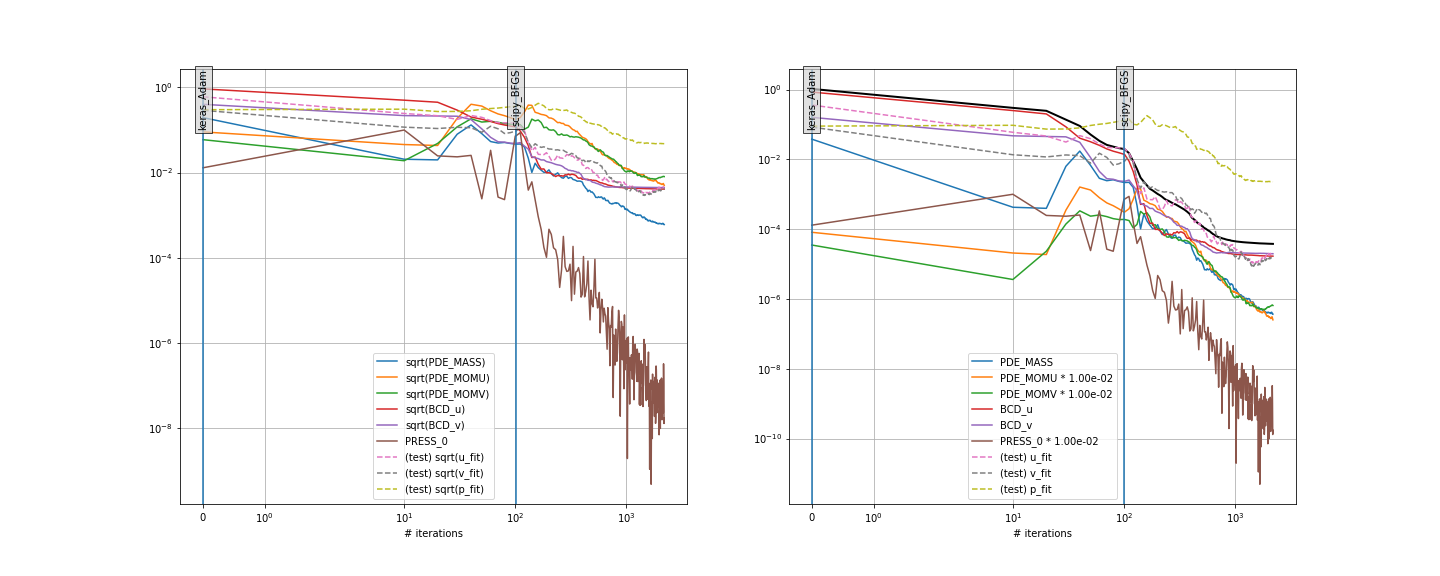
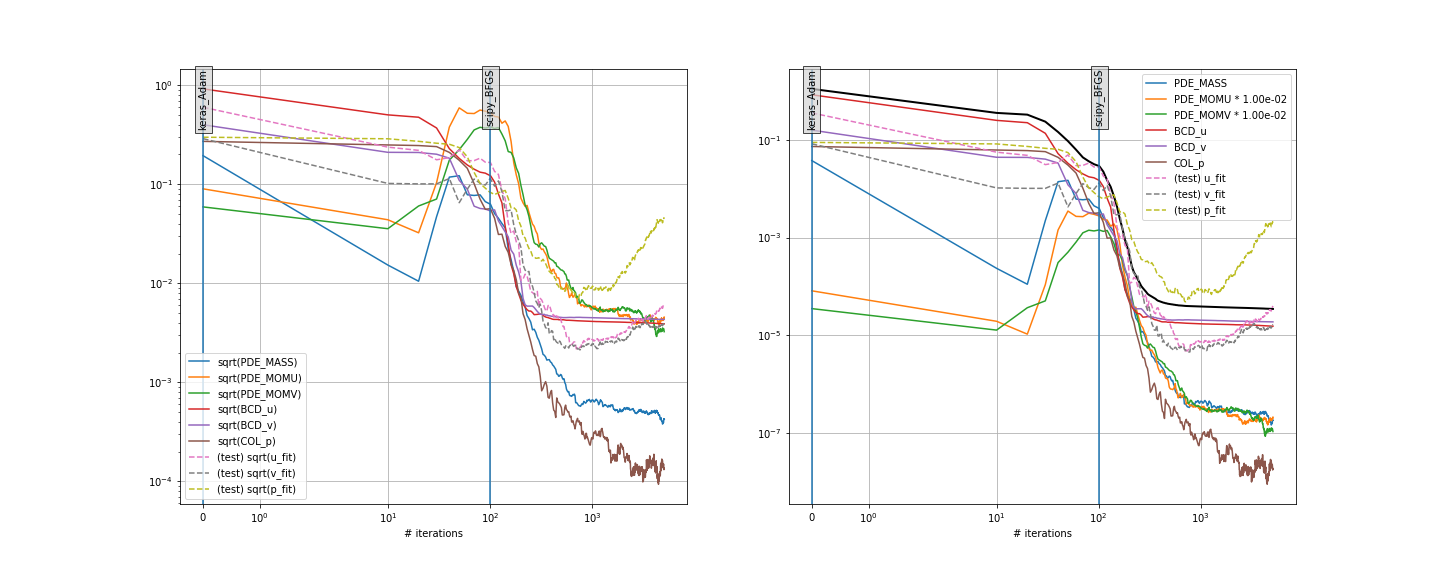
Image saving fixed

diff --git a/Examples/Colliding_Flow/colliding_flow.py b/Examples/Colliding_Flow/colliding_flow.py
@@ -64,7 +64,7 @@ num_pres = 20
 
 use_noise   = True
 collocation = False
-press_mode  = "Mean" # "Collocation", "Mean", "None"
+press_mode  = "Collocation" # "Collocation", "Mean", "None"
 
 # %% Domain Tensors
 
@@ -229,6 +229,7 @@ ns.minimize(pb, 'scipy', 'BFGS', num_epochs = 5000)
 
 # Direct print loss
 pb.callbacks[0].finalize(pb, block = False)
+plt.savefig(history_file)
 
 # %% Post-processing
 
